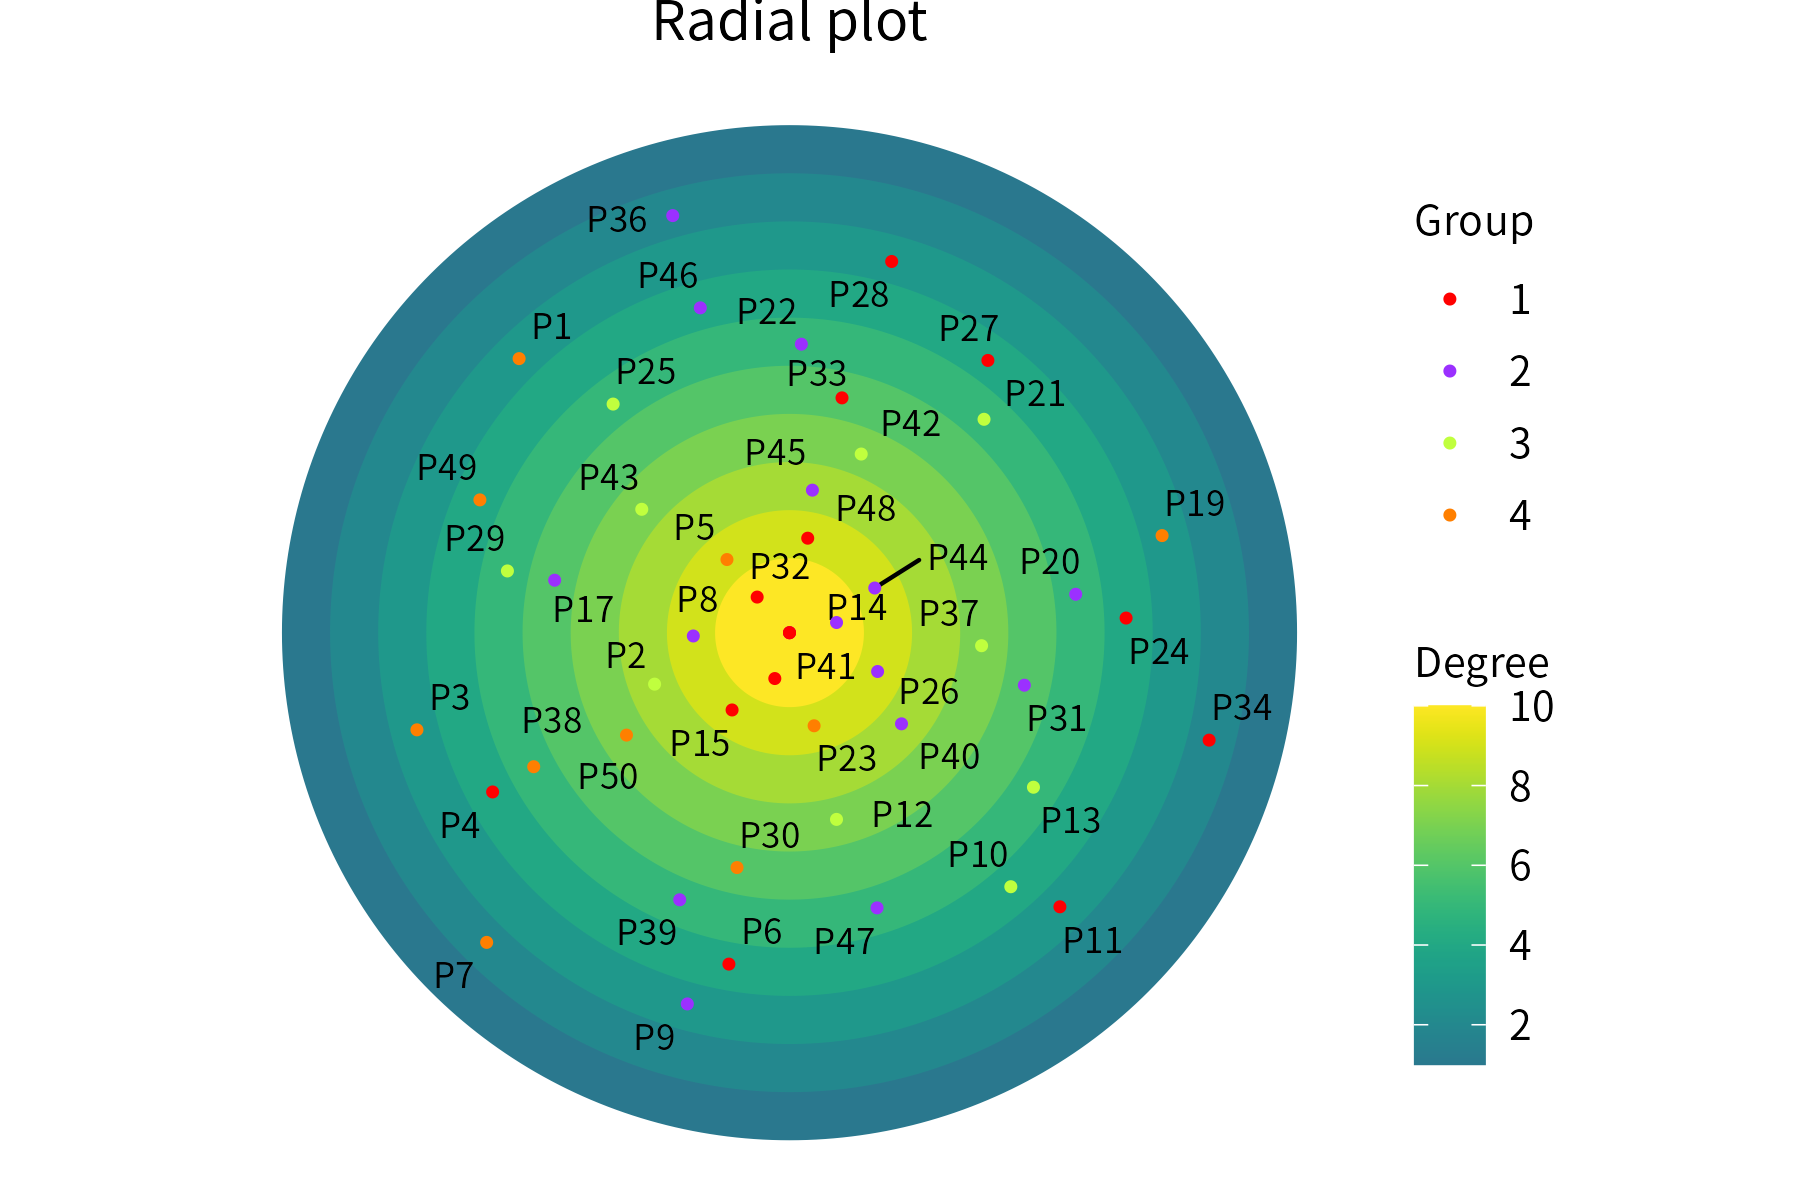
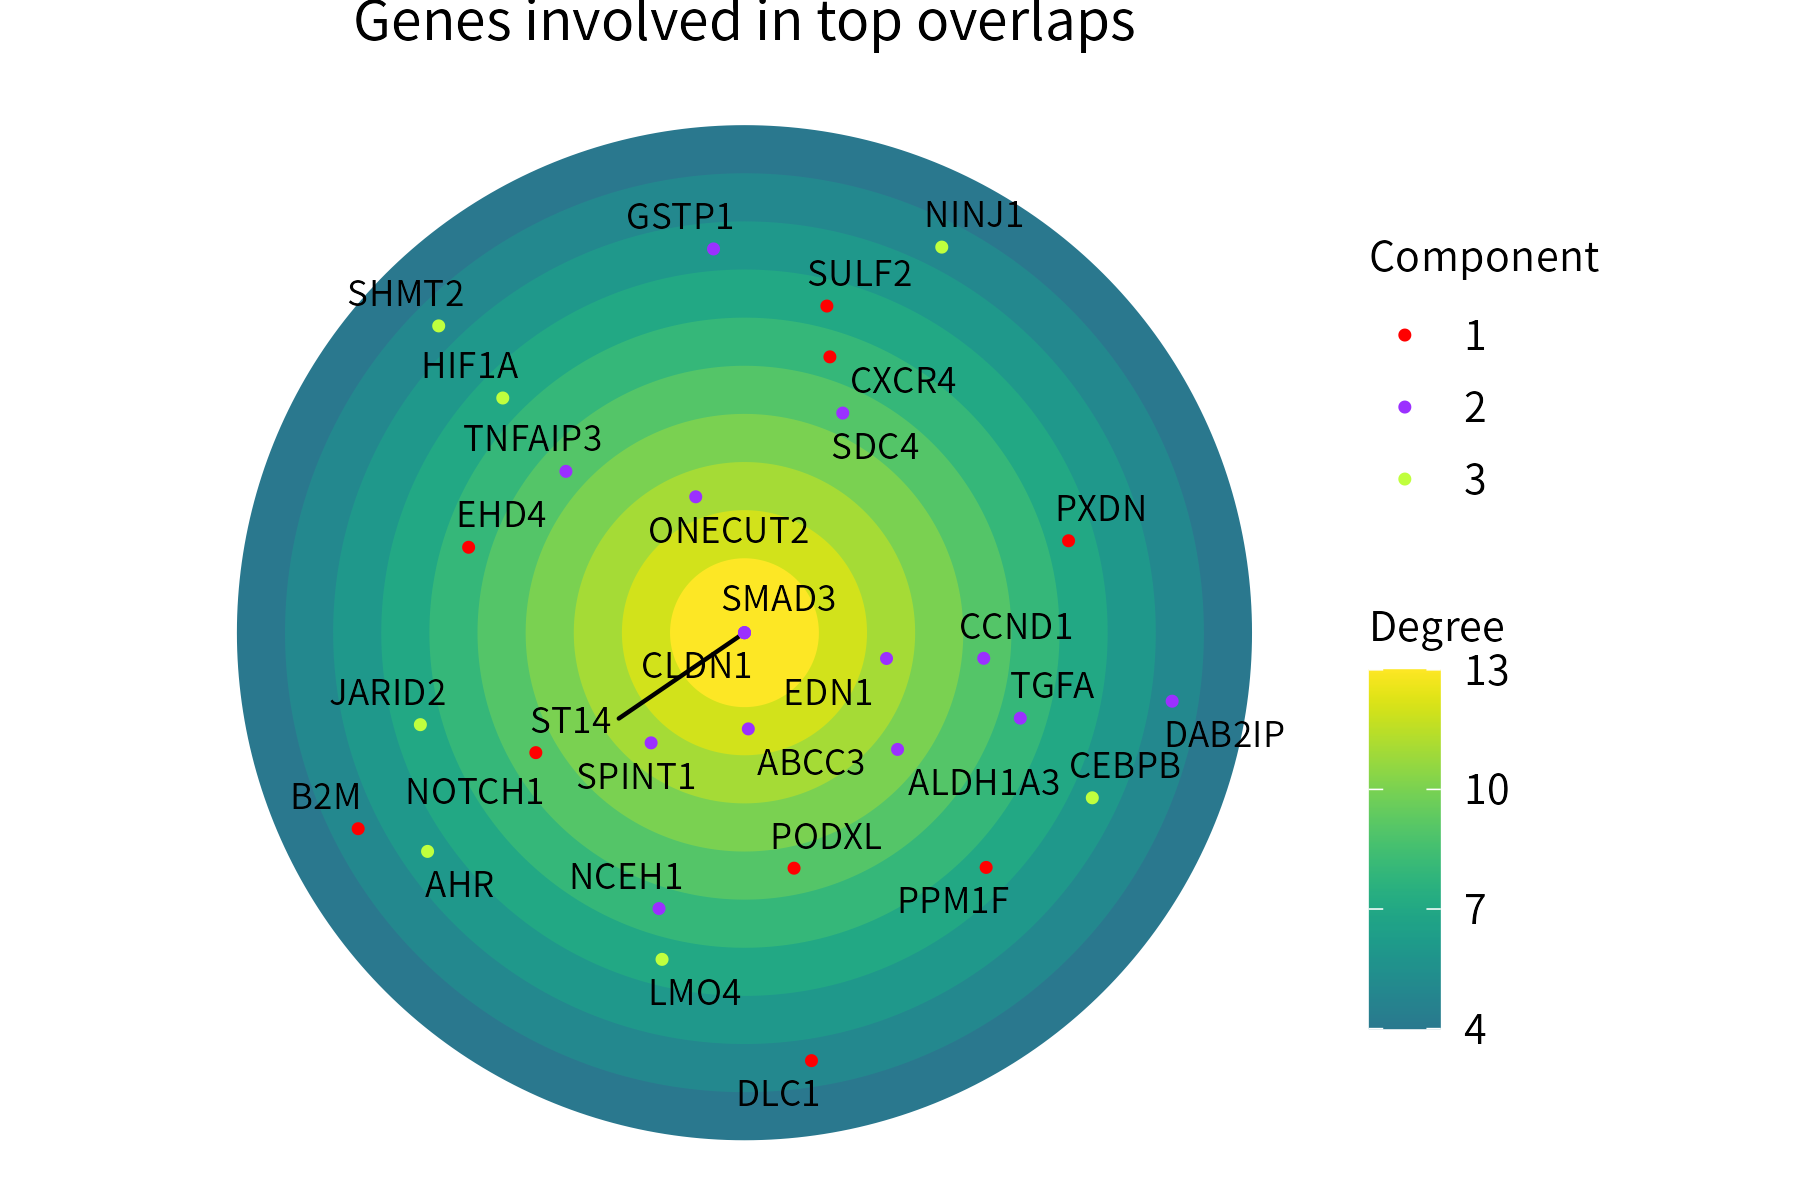
Edited radialPlot and README

diff --git a/README.md b/README.md
@@ -58,7 +58,7 @@ highlighting the top ones in purple:
 
 ### networkPlot
 
-This function plot a graph using different colors for nodes that are part of 
+This function plots a graph using different colors for nodes that are part of 
 different connected components.
 
 An application is visualizing genes with a strong overlapping expression in 
@@ -67,8 +67,14 @@ of the gene.
 
 ![](man/figures/network_plot.png)
 
-- `radialPlot`: Plot positive integer-valued points over concentric circles, 
-with points located more centrally representing higher values.
+### radialPlot
+
+This function plots positive integer-valued points over concentric circles, 
+with points located more centrally representing higher values. 
+
+An application is visualizing genes involved in a network. Just like 
+`networkPlot`, `radialPlot` can distinguish genes belonging to different
+connected components:
 
 ![](man/figures/radial_plot.png)
 
